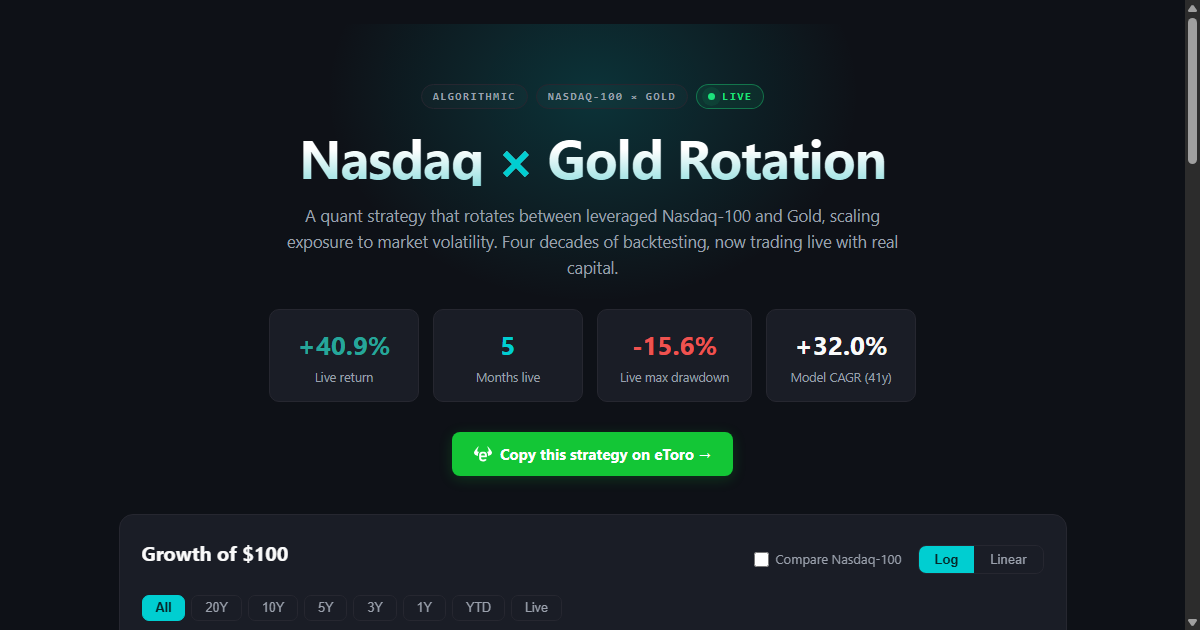
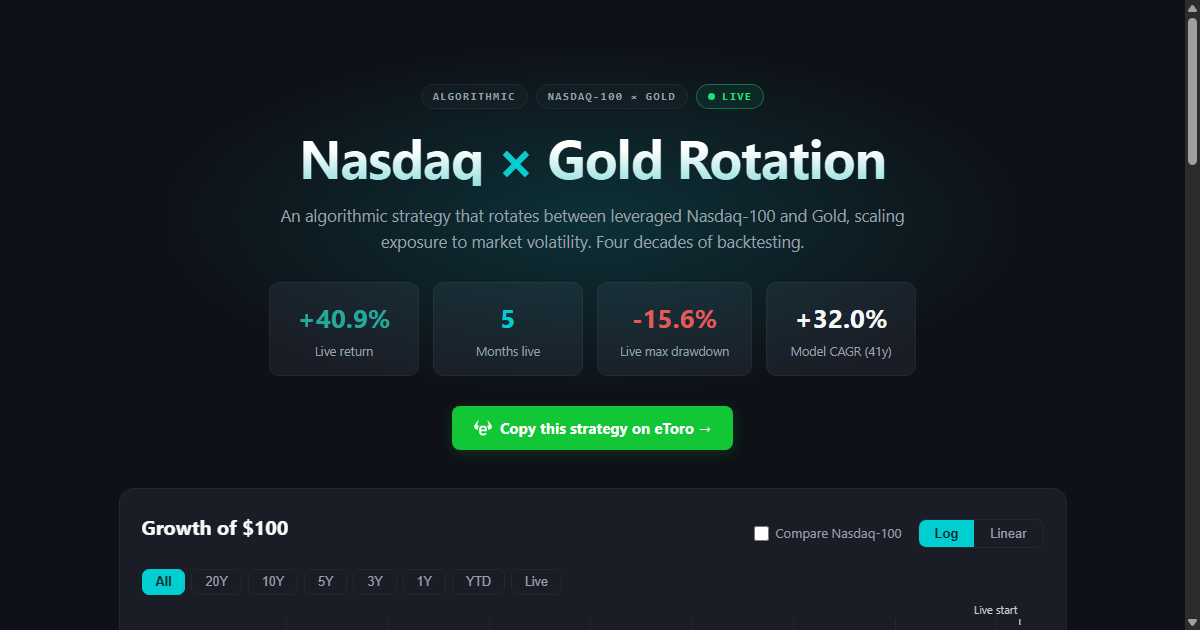
Responsive layout, hero glow fix, tagline copy

diff --git a/style.css b/style.css
@@ -20,6 +20,7 @@ body {
   color: var(--text);
   font-family: "Segoe UI", system-ui, -apple-system, Roboto, sans-serif;
   line-height: 1.6;
+  overflow-x: hidden;
 }
 
 main { max-width: 980px; margin: 0 auto; padding: 24px 16px 48px; }
@@ -29,9 +30,10 @@ main { max-width: 980px; margin: 0 auto; padding: 24px 16px 48px; }
 
 .hero-glow {
   position: absolute;
-  top: -200px; left: 50%; transform: translateX(-50%);
-  width: 760px; height: 540px; max-width: 120vw; pointer-events: none;
-  background: radial-gradient(ellipse 50% 55% at 50% 50%, rgba(0, 206, 209, .18), transparent 70%);
+  inset: 0; pointer-events: none;
+  /* Centred inside the hero and fully transparent at every edge, so the
+     glow never gets clipped into a hard line by overflow:hidden. */
+  background: radial-gradient(ellipse 75% 62% at 50% 42%, rgba(0, 206, 209, .17), transparent 62%);
 }
 
 .tags {
@@ -216,6 +218,7 @@ main { max-width: 980px; margin: 0 auto; padding: 24px 16px 48px; }
 /* --- Monthly returns heatmap --- */
 .heatmap-wrap {
   overflow: auto;
+  -webkit-overflow-scrolling: touch;
   max-height: 480px;
   border: 1px solid var(--card-border);
   border-radius: 8px;
@@ -283,8 +286,41 @@ footer {
 
 footer a { color: var(--accent); text-decoration: none; }
 
-@media (max-width: 600px) {
+/* --- Responsive --- */
+@media (max-width: 760px) {
+  main { padding: 16px 12px 40px; }
+
+  .card { padding: 16px 14px 14px; border-radius: 12px; }
+
+  .hero { padding: 44px 4px 28px; }
+  .hero h1 { font-size: clamp(28px, 8vw, 44px); }
+  .tagline { font-size: 15px; }
+
+  /* Stats: tidy 2-per-row grid that fills the width */
+  .stats { gap: 10px; }
+  .stat { flex: 1 1 calc(50% - 10px); min-width: 0; padding: 12px 14px; }
+  .stat .value { font-size: 22px; }
+
+  /* Chart card head stacks: title on top, controls full-width below */
+  .card-head { align-items: flex-start; }
+  .chart-controls { width: 100%; justify-content: space-between; gap: 10px; }
+
   .chart { height: 300px; }
-  .chart.tall { height: 340px; }
-  .stat { min-width: 130px; padding: 11px 16px; }
+  .chart.tall { height: 360px; }
+
+  .period-bar { gap: 5px; }
+  .period-bar button { padding: 5px 10px; font-size: 12px; }
+  .range-inputs { gap: 12px; }
+
+  /* Monthly grid stays a horizontal-scroll table (sticky year + header) */
+  .heatmap-wrap { max-height: 62vh; }
+  #heatmap { font-size: 11px; }
+  #heatmap th, #heatmap td { padding: 4px 6px; }
+}
+
+@media (max-width: 380px) {
+  .hero h1 { font-size: 25px; }
+  .cta { font-size: 13.5px; padding: 10px 16px; }
+  .tag, .live-badge { font-size: 10px; padding: 5px 9px; }
+  .stat .value { font-size: 20px; }
 }

diff --git a/index.html b/index.html
@@ -53,7 +53,7 @@
         <span class="live-badge"><span class="live-dot"></span>LIVE</span>
       </div>
       <h1>Nasdaq <span class="x">&times;</span> Gold Rotation</h1>
-      <p class="tagline">A quant strategy that rotates between leveraged Nasdaq&#8209;100 and Gold, scaling exposure to market volatility. Four decades of backtesting, now trading live with real capital.</p>
+      <p class="tagline">An algorithmic strategy that rotates between leveraged Nasdaq&#8209;100 and Gold, scaling exposure to market volatility. Four decades of backtesting.</p>
       <div class="stats" id="stats-band"></div>
       <a class="cta" href="https://www.etoro.com/people/pauladrienb" target="_blank" rel="noopener">
         <svg xmlns="http://www.w3.org/2000/svg" viewBox="0 0 1534 1294" width="18" height="18" fill="#fff"><path fill-rule="evenodd" d="m1093.8 481.7c-11.5-10.3-17.7-18-8.5-18 19.5 0 137.6 17.2 162-71.3 24.4-88.5-105.9-355.4-110.8-366.9-4.7-11 5-24.9 19.3-24.9 14.3 0 24.4 15.1 25.9 16.9 132.9 165.4 318.4 371.8 342.2 460.7 60.5 225.4-173.3 316.7-320.7 333.4q-0.7 0.1-1.4-0.1-0.7-0.2-1.3-0.7-0.6-0.4-0.9-1.1-0.3-0.7-0.3-1.4v-80c0-108-40.7-188.9-105.4-246.6zm-653.3 0c-64.6 57.7-105.3 138.6-105.3 246.6v80q0 0.7-0.3 1.4-0.4 0.7-0.9 1.1-0.6 0.5-1.3 0.7-0.7 0.2-1.4 0.1c-147.6-16.7-381.3-108-320.9-333.3 23.9-89 209.4-295.4 342.3-460.7 1.5-1.9 11.8-17 25.8-17 14.1 0 24.1 14 19.3 24.9-4.9 11.5-135.1 278.4-110.8 366.9 24.4 88.5 142.5 71.2 162 71.2 9.4 0 3.1 7.8-8.5 18.1zm333.8-37.3c157.5 1.5 324.1 94.4 324.1 281.8v156.8c0 5.6-1.1 11.2-3.3 16.4-2.1 5.3-5.3 10-9.3 14-4 4-8.7 7.2-14 9.4-5.2 2.1-10.8 3.3-16.4 3.3h-445.3v85.1c0 77.2 91.7 121.3 164.2 121.3 53.5 0 129.4-27.4 159.2-77q0.3-0.7 0.9-1.1 0.5-0.5 1.3-0.7 0.7-0.2 1.4-0.1 0.8 0.1 1.4 0.5c54.4 30.7 86.3 48.2 141.3 79.7 1.7 0.9 2.9 2.4 3.5 4.2 0.5 1.8 0.3 3.8-0.5 5.4-62.4 100.9-193.4 148.6-308.4 149.7-160.6-1.6-337.3-91.3-337.3-281.8v-285c0-187.5 176.7-280.4 337.3-281.9zm154.4 281.9c0-77.2-86.8-113.4-154.5-113.4-72.4 0-164.2 36.2-164.2 113.4v56.6h311.6q1.5 0 2.8-0.6 1.4-0.6 2.4-1.6c1.3-1.4 2-3.1 1.9-5z"/></svg>